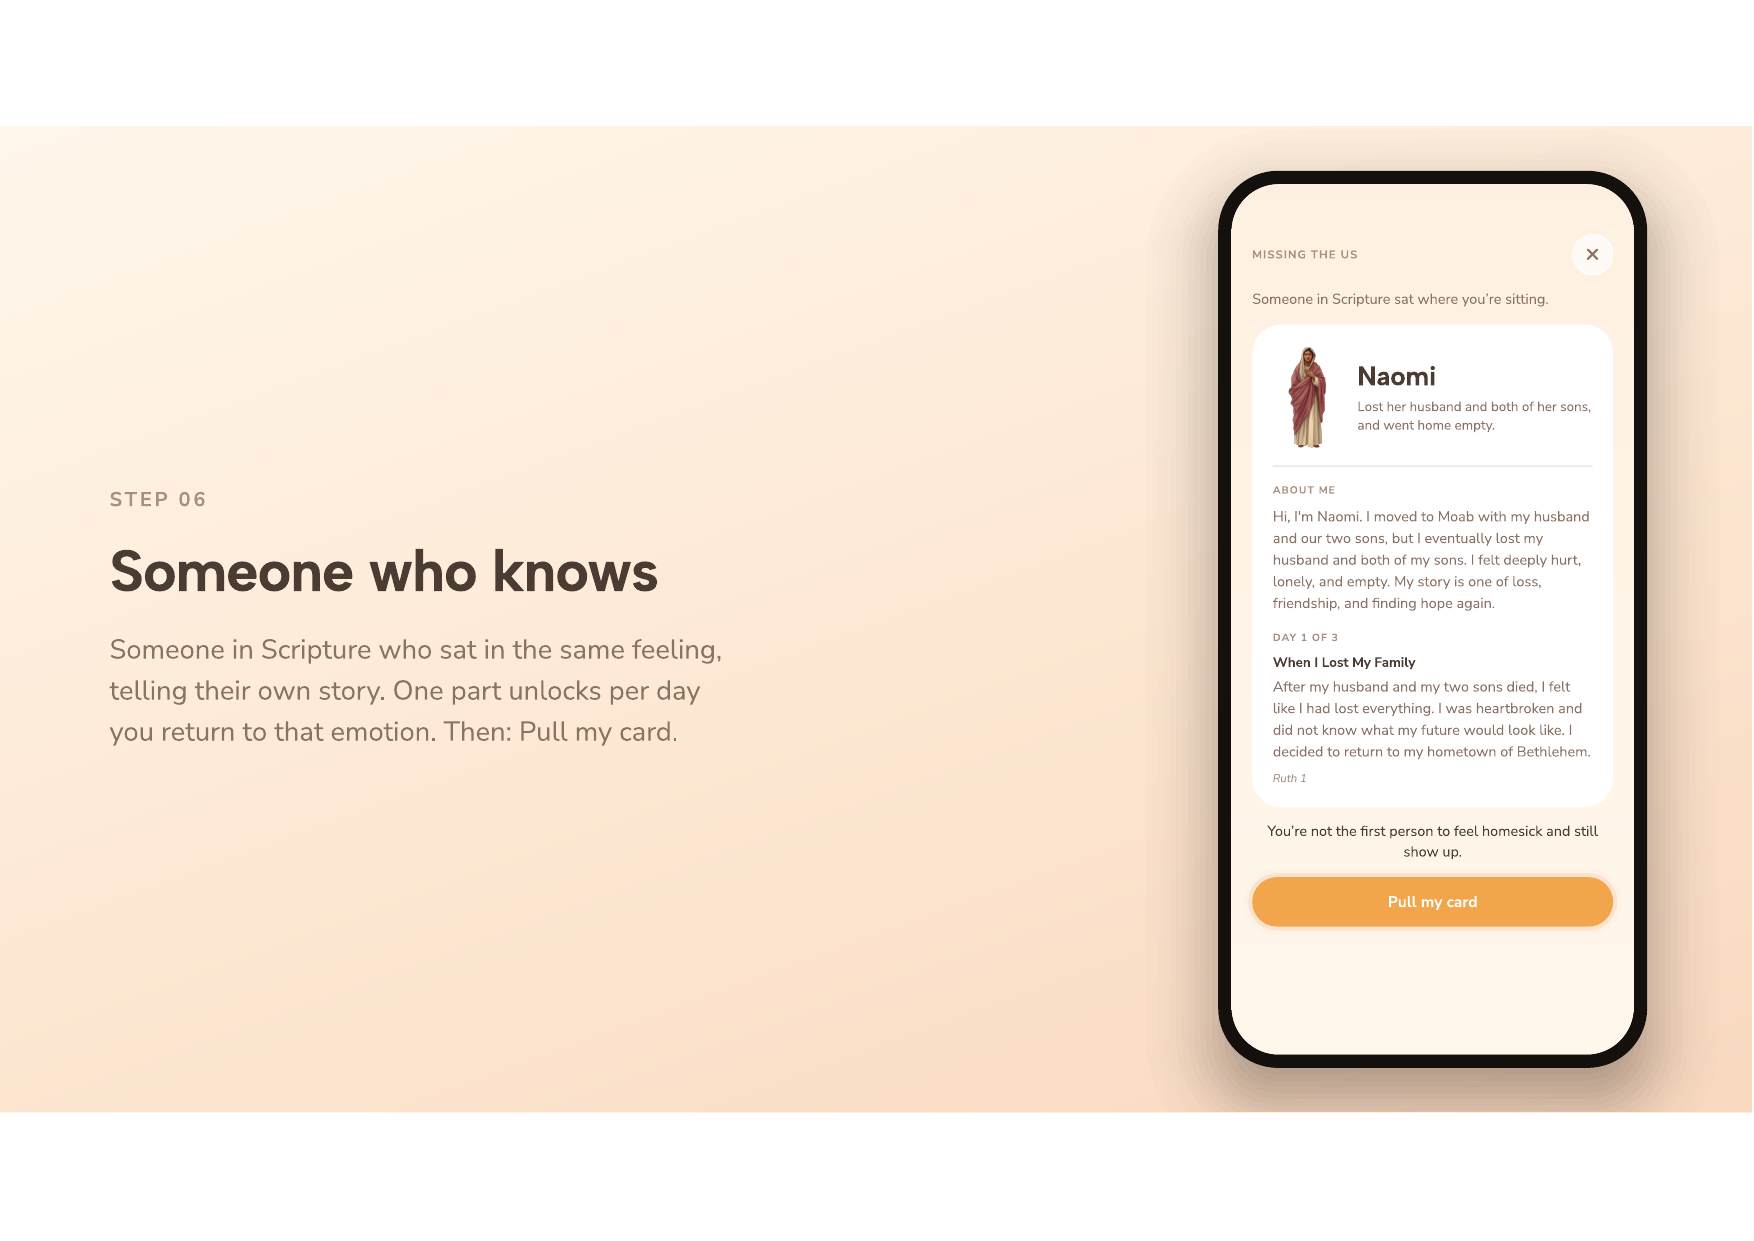
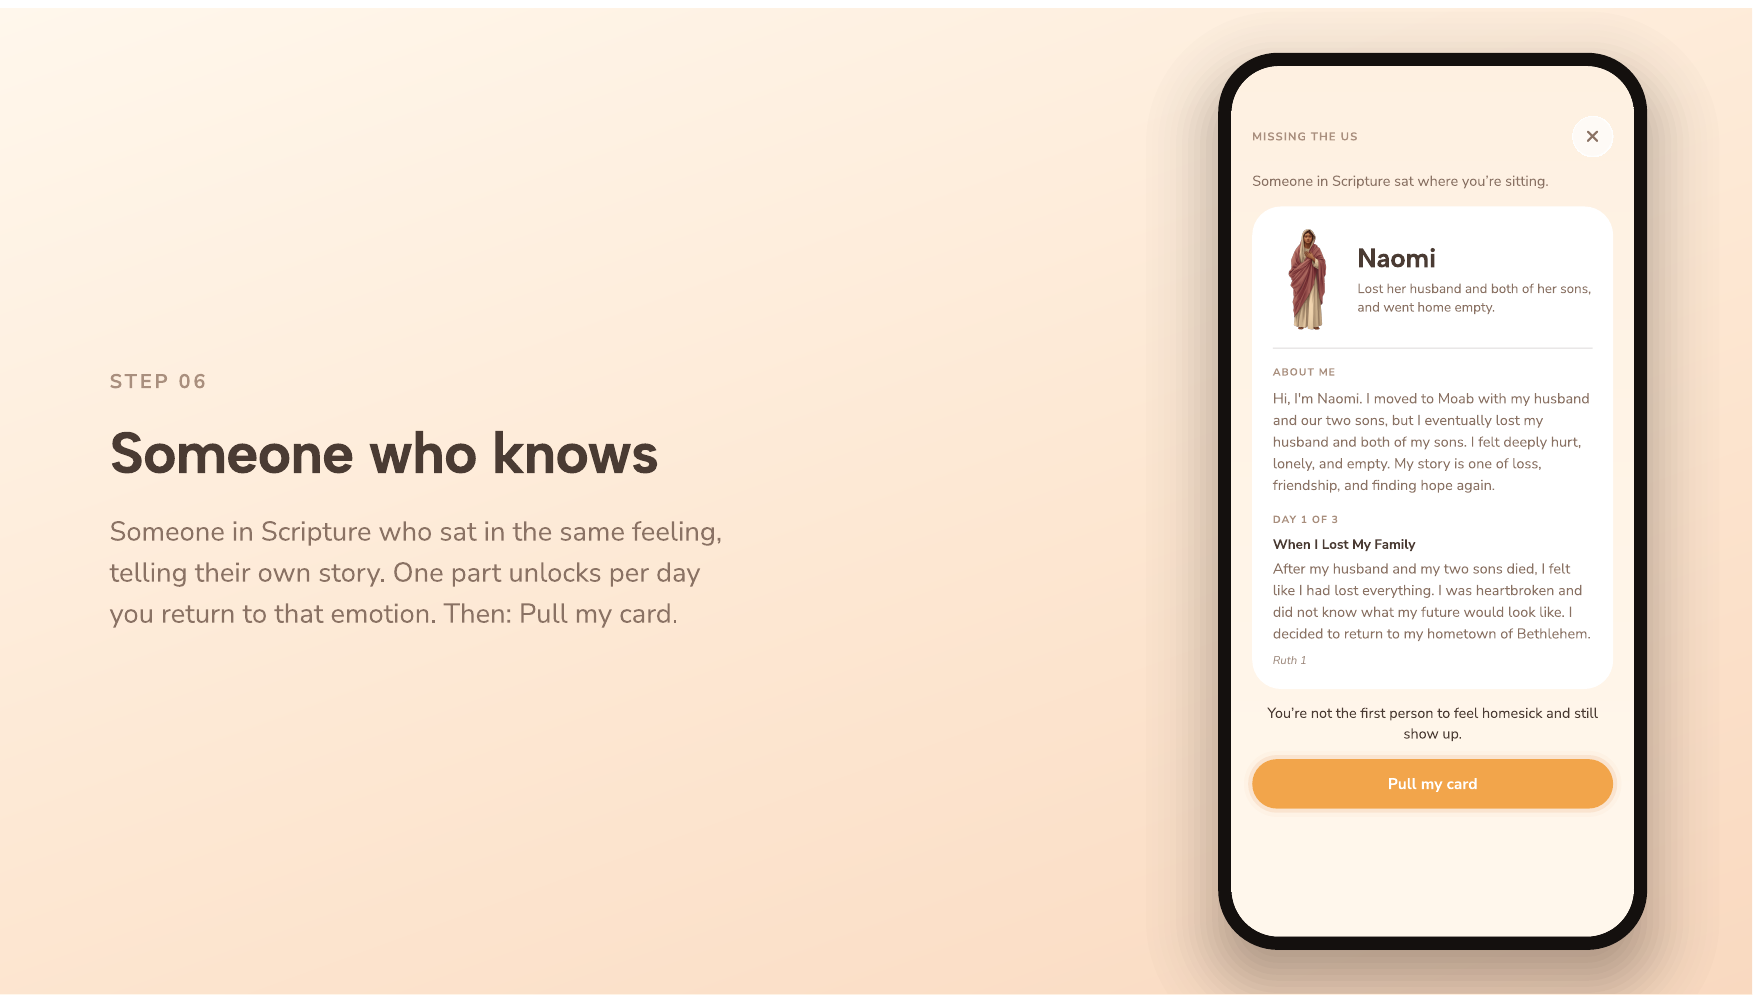
Crop white margins from Faith First-Aid Kit screens, fix aspect ratio
The exported PDF slides had a baked-in white header/footer margin
that showed as an empty frame around each image and shrank the
visible content. Crops that margin out of all 13 images and updates
the gallery's aspect ratio to match, so each screen fills its tile
edge-to-edge and reads bigger and clearer.

diff --git a/src/app/projects/[slug]/page.tsx b/src/app/projects/[slug]/page.tsx
@@ -18,7 +18,9 @@ function GalleryCard({
 }) {
   const content = (
     <>
-      <div className="relative aspect-square w-full bg-white">
+      <div
+        className={`relative w-full ${showCaption ? "aspect-square bg-white" : "aspect-[1754/1002]"}`}
+      >
         <Image
           src={item.src}
           alt={item.title}
@@ -41,8 +43,9 @@ function GalleryCard({
     </>
   );
 
-  const className =
-    "block overflow-hidden rounded-3xl bg-white/70 shadow-sm transition-transform hover:-translate-y-1 hover:shadow-md";
+  const className = showCaption
+    ? "block overflow-hidden rounded-3xl bg-white/70 shadow-sm transition-transform hover:-translate-y-1 hover:shadow-md"
+    : "block overflow-hidden rounded-2xl transition-transform hover:-translate-y-1";
 
   if (item.href) {
     return (
